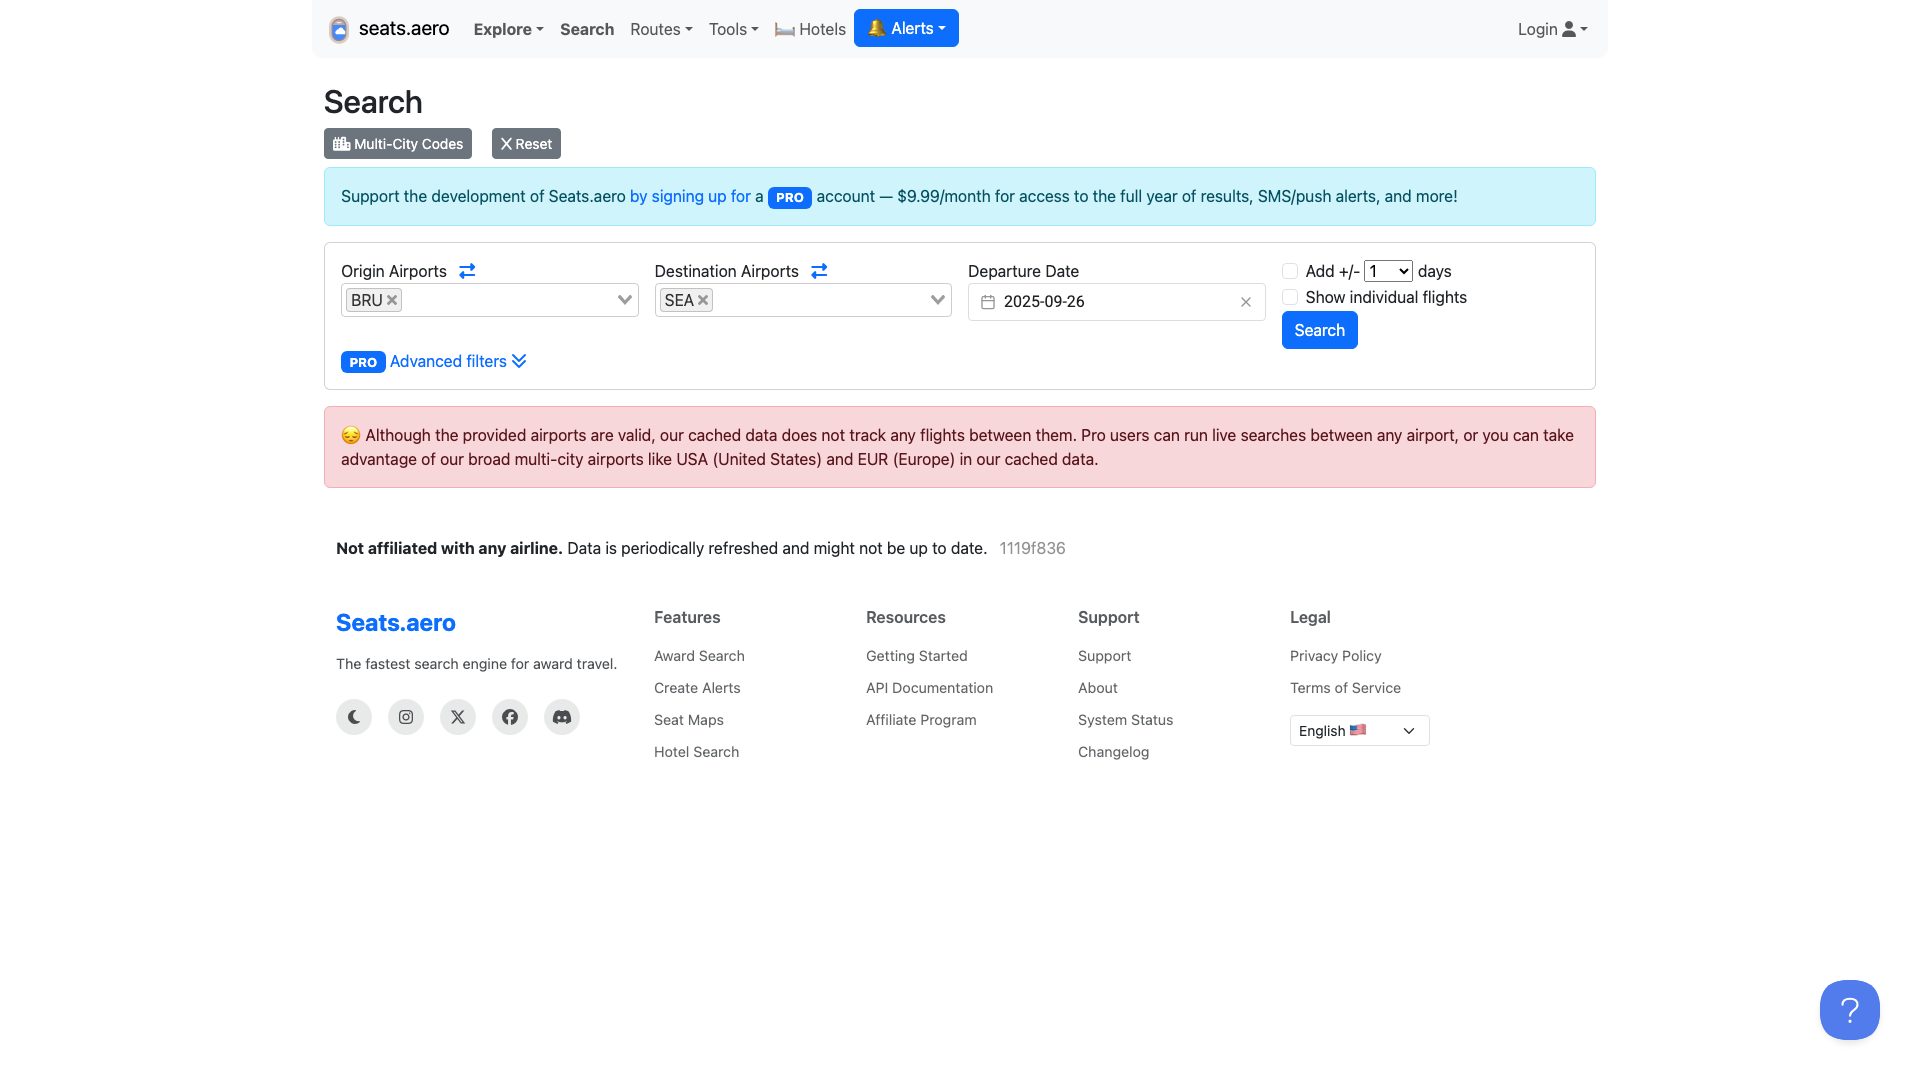
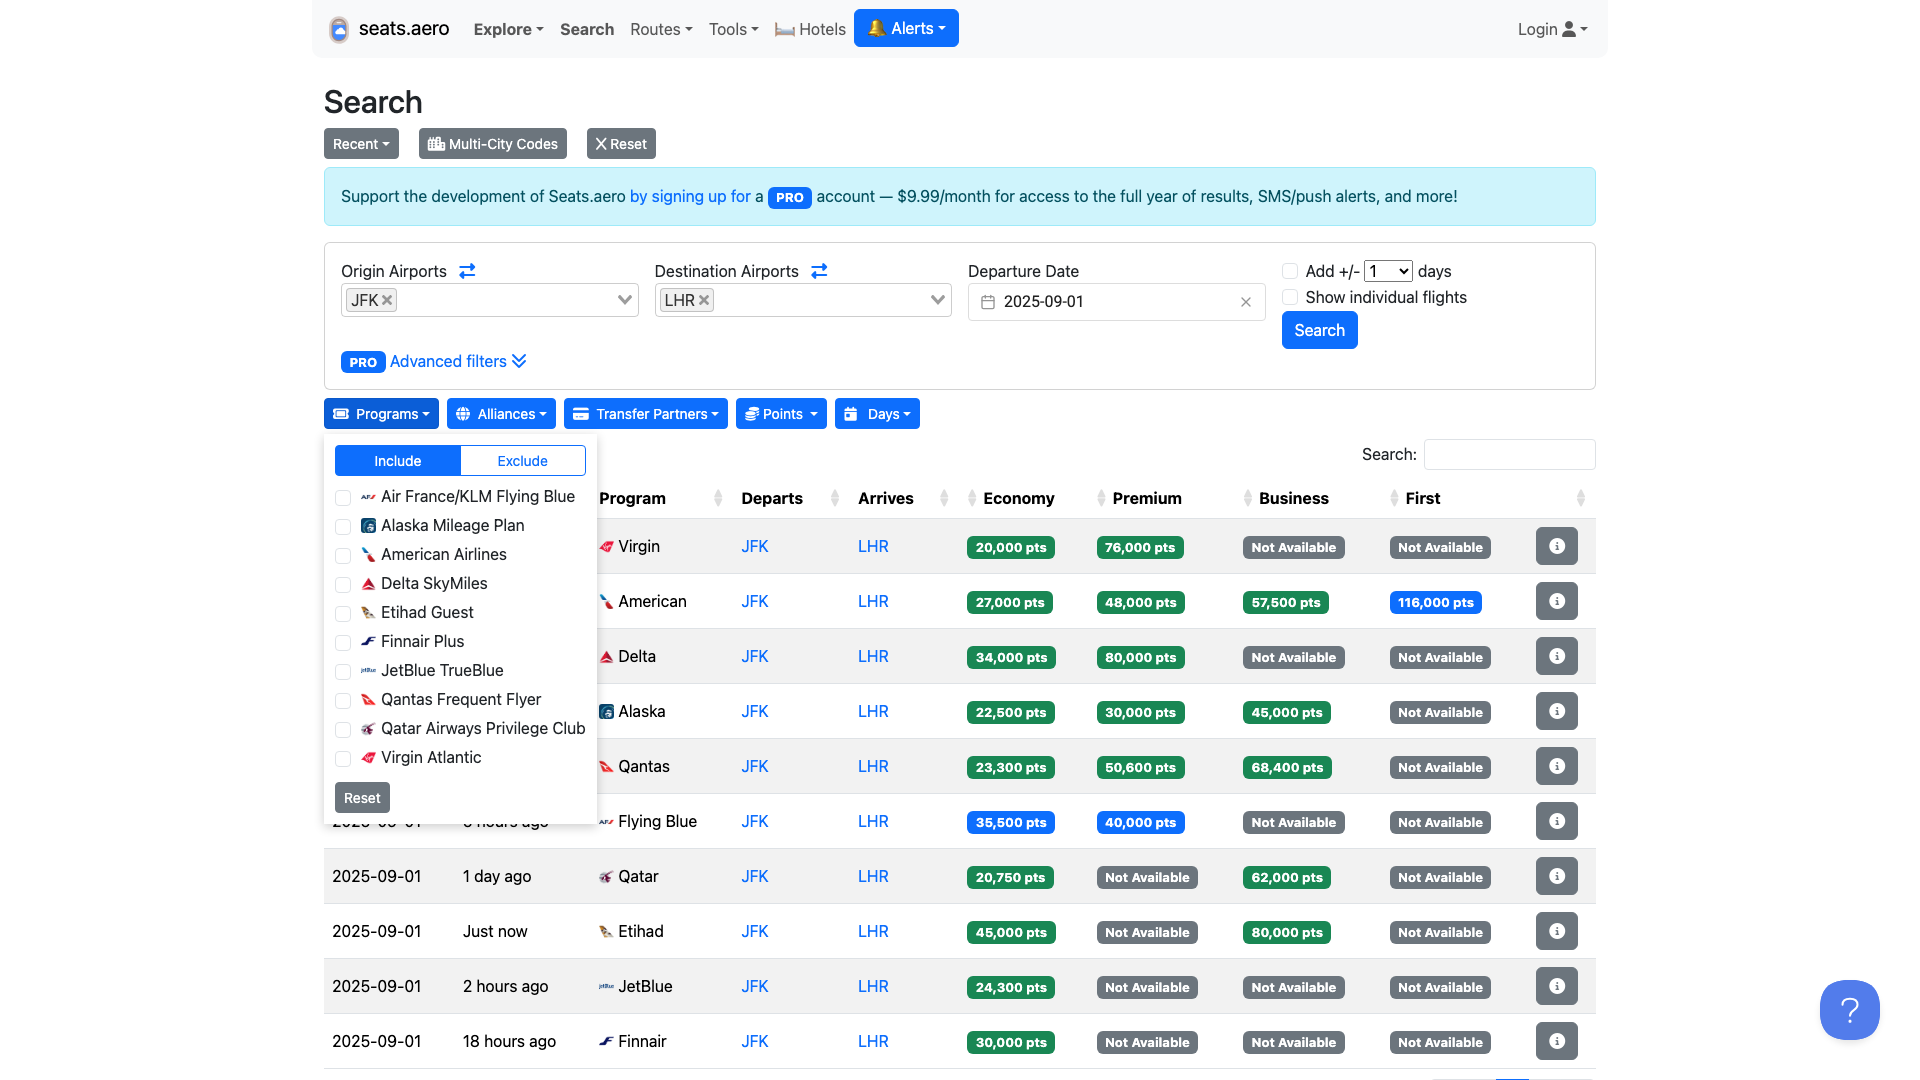
Seats.aero scraper now working

diff --git a/the_point_finder/main.py b/the_point_finder/main.py
@@ -1,7 +1,38 @@
 import argparse
 from scrapers import seats_aero
-from api_clients import amadeus
 import sys
+import json
+import re
+
+# Placeholder for cash price. In the future, this will be retrieved from a reliable source.
+CASH_PRICE = 1000 
+
+def parse_fees(fees_str):
+    if fees_str is None:
+        return 0.0
+    
+    fees_str = fees_str.replace('$', '').replace('€', '').replace('USD', '').replace('EUR', '').strip()
+    try:
+        return float(fees_str)
+    except (ValueError, TypeError):
+        return 0.0
+
+def deduplicate_deals(deals):
+    unique_deals = []
+    seen_deals = set()
+
+    for deal in deals:
+        for cabin in ['economy', 'premium', 'business', 'first']:
+            if deal[cabin]:
+                points = deal[cabin].get('points')
+                route = deal.get('route')
+                date = deal.get('date')
+                
+                deal_id = (date, route, points, cabin)
+                if deal_id not in seen_deals:
+                    unique_deals.append(deal)
+                    seen_deals.add(deal_id)
+    return unique_deals
 
 def main():
     """
@@ -13,26 +44,87 @@ def main():
     parser.add_argument("start_date", help="Start date for the travel search in YYYY-MM-DD format.")
     parser.add_argument("end_date", help="End date for the travel search in YYYY-MM-DD format.")
     
+    # Optional filter arguments
+    parser.add_argument("--programs", nargs='+', help="List of frequent flyer programs to filter by.")
+    parser.add_argument("--alliances", nargs='+', help="List of airline alliances to filter by.")
+    parser.add_argument("--transfer_partners", nargs='+', help="List of transfer partners to filter by.")
+    parser.add_argument("--points_min", type=int, help="Minimum points required for a deal.")
+    parser.add_argument("--points_max", type=int, help="Maximum points required for a deal.")
+    parser.add_argument("--days", type=int, help="Number of days to search around the specified date.")
+
     args = parser.parse_args()
     
     print(f"Searching for flights from {args.origin} to {args.destination} between {args.start_date} and {args.end_date}...")
     
     try:
         # Scrape for points deals
-        points_deals = seats_aero.scrape_seats_aero(args.origin, args.destination, args.start_date, args.end_date)
+        points_deals = seats_aero.scrape_seats_aero(
+            args.origin, 
+            args.destination, 
+            args.start_date, 
+            args.end_date,
+            programs=args.programs,
+            alliances=args.alliances,
+            transfer_partners=args.transfer_partners,
+            points_min=args.points_min,
+            points_max=args.points_max,
+            days=args.days
+        )
     except Exception as e:
         print(f"Error scraping seats.aero: {e}", file=sys.stderr)
         points_deals = []
 
-    try:
-        # Get cash prices from Amadeus
-        cash_prices = amadeus.get_flight_offers(args.origin, args.destination, args.start_date)
-    except Exception as e:
-        print(f"Error getting cash prices from Amadeus: {e}", file=sys.stderr)
-        cash_prices = []
+    if not points_deals:
+        print("No deals found.")
+        return
 
-    # In the future, this is where the combination, VPP calculation, and ranking will happen.
-    
+    processed_deals = []
+    for deal in points_deals:
+        for cabin in ['economy', 'premium', 'business', 'first']:
+            if deal[cabin]:
+                points = deal[cabin].get('points')
+                fees_str = deal[cabin].get('fees')
+                fees = parse_fees(fees_str)
+
+                if points and points > 0:
+                    vpp = (CASH_PRICE - fees) / points
+                    
+                    processed_deal = {
+                        "date": deal['date'],
+                        "program": deal['program'],
+                        "route": deal['route'],
+                        "cabin": cabin,
+                        "points": points,
+                        "fees": fees_str,
+                        "vpp": round(vpp, 4)
+                    }
+                    processed_deals.append(processed_deal)
+
+    # Sort deals by VPP in descending order (best value first)
+    sorted_deals = sorted(processed_deals, key=lambda x: x['vpp'], reverse=True)
+
+    # Deduplicate deals
+    unique_deals = []
+    seen_deals = set()
+    for deal in sorted_deals:
+        deal_id = (deal['date'], deal['route'], deal['points'], deal['cabin'])
+        if deal_id not in seen_deals:
+            unique_deals.append(deal)
+            seen_deals.add(deal_id)
+
+
+    for i, deal in enumerate(unique_deals):
+        print(f"--- Deal #{i+1} ---")
+        print(f"  Date: {deal['date']}")
+        print(f"  Program: {deal['program']}")
+        print(f"  Route: {deal['route']}")
+        print(f"  Cabin: {deal['cabin'].capitalize()}")
+        print(f"  Points: {deal['points']}")
+        print(f"  Fees: {deal['fees']}")
+        print(f"  VPP: {deal['vpp']}")
+        print("-" * 16)
+
+
     print("Search complete.")
 
 if __name__ == "__main__":

diff --git a/the_point_finder/scrapers/seats_aero.py b/the_point_finder/scrapers/seats_aero.py
@@ -1,8 +1,9 @@
 from playwright.sync_api import sync_playwright
 from bs4 import BeautifulSoup
 import re
+import time
 
-def scrape_seats_aero(origin, destination, start_date, end_date):
+def scrape_seats_aero(origin, destination, start_date, end_date, programs=None, alliances=None, transfer_partners=None, points_min=None, points_max=None, days=None):
     """
     Scrapes seats.aero for flight deals.
 
@@ -11,6 +12,12 @@ def scrape_seats_aero(origin, destination, start_date, end_date):
         destination (str): The destination airport IATA code.
         start_date (str): The start date of the travel date range in YYYY-MM-DD format.
         end_date (str): The end date of the travel date range in YYYY-MM-DD format.
+        programs (list, optional): List of frequent flyer programs to filter by. Defaults to None.
+        alliances (list, optional): List of airline alliances to filter by. Defaults to None.
+        transfer_partners (list, optional): List of transfer partners to filter by. Defaults to None.
+        points_min (int, optional): Minimum points required for a deal. Defaults to None.
+        points_max (int, optional): Maximum points required for a deal. Defaults to None.
+        days (int, optional): Number of days to search around the specified date. Defaults to None.
 
     Returns:
         list: A list of flight options, where each option is a dictionary.
@@ -30,6 +37,45 @@ def scrape_seats_aero(origin, destination, start_date, end_date):
             page.goto(url, timeout=60000)
             print("Page loaded.")
             
+            # Apply filters
+            if programs:
+                page.click('button:has-text("Programs")')
+                page.wait_for_selector('.custom-dropdown-menu')
+                for program in programs:
+                    page.check(f'label:has-text("{program}")')
+                    time.sleep(0.5) # Wait for live update
+                page.click('button:has-text("Programs")') # Close dropdown
+            
+            if alliances:
+                page.click('button:has-text("Alliances")')
+                page.wait_for_selector('.custom-dropdown-menu')
+                for alliance in alliances:
+                    page.check(f'label:has-text("{alliance}")')
+                    time.sleep(0.5)
+                page.click('button:has-text("Alliances")')
+
+            if transfer_partners:
+                page.click('button:has-text("Transfer Partners")')
+                page.wait_for_selector('.custom-dropdown-menu')
+                for partner in transfer_partners:
+                    page.check(f'label:has-text("{partner}")')
+                    time.sleep(0.5)
+                page.click('button:has-text("Transfer Partners")')
+
+            if points_min or points_max:
+                page.click('button:has-text("Points")')
+                if points_min:
+                    page.fill('input[placeholder="Min"]', str(points_min))
+                if points_max:
+                    page.fill('input[placeholder="Max"]', str(points_max))
+                page.click('button:has-text("Points")')
+
+            if days:
+                page.click('button:has-text("Days")')
+                page.select_option('select[name="additional_days_num"]', str(days))
+                page.click('button:has-text("Days")')
+
+
             # Check for the "no results" message
             if page.locator("text=our cached data does not track any flights between them").is_visible():
                 print("No cached data available for this route.")
@@ -105,12 +151,12 @@ def scrape_seats_aero(origin, destination, start_date, end_date):
 
 if __name__ == '__main__':
     # Example usage for testing
-    origin = "BRU"
-    destination = "SEA"
-    start_date = "2025-09-26"
-    end_date = "2025-09-26"
+    origin = "JFK"
+    destination = "LHR"
+    start_date = "2025-09-01"
+    end_date = "2025-09-10"
     
-    deals = scrape_seats_aero(origin, destination, start_date, end_date)
+    deals = scrape_seats_aero(origin, destination, start_date, end_date, programs=['Delta', 'Virgin'])
     
     if deals:
         for deal in deals:

diff --git a/the_point_finder/scrapers/google_flights.py b/the_point_finder/scrapers/google_flights.py
@@ -1,0 +1,38 @@
+from playwright.sync_api import sync_playwright
+from bs4 import BeautifulSoup
+
+def scrape_google_flights(origin, destination, start_date, end_date):
+    """
+    Scrapes Google Flights for cash prices.
+
+    Args:
+        origin (str): The origin airport IATA code.
+        destination (str): The destination airport IATA code.
+        start_date (str): The start date of the travel date range in YYYY-MM-DD format.
+        end_date (str): The end date of the travel date range in YYYY-MM-DD format.
+
+    Returns:
+        list: A list of flight options, where each option is a dictionary.
+    """
+    # Placeholder for the scraping logic
+    print("Scraping Google Flights...")
+    
+    # In the future, this will be replaced with actual scraping logic.
+    # For now, it returns an empty list.
+    
+    return []
+
+if __name__ == '__main__':
+    # Example usage for testing
+    origin = "SFO"
+    destination = "LAX"
+    start_date = "2025-09-01"
+    end_date = "2025-09-10"
+    
+    prices = scrape_google_flights(origin, destination, start_date, end_date)
+    
+    if prices:
+        for price in prices:
+            print(price)
+    else:
+        print("No prices found.")
